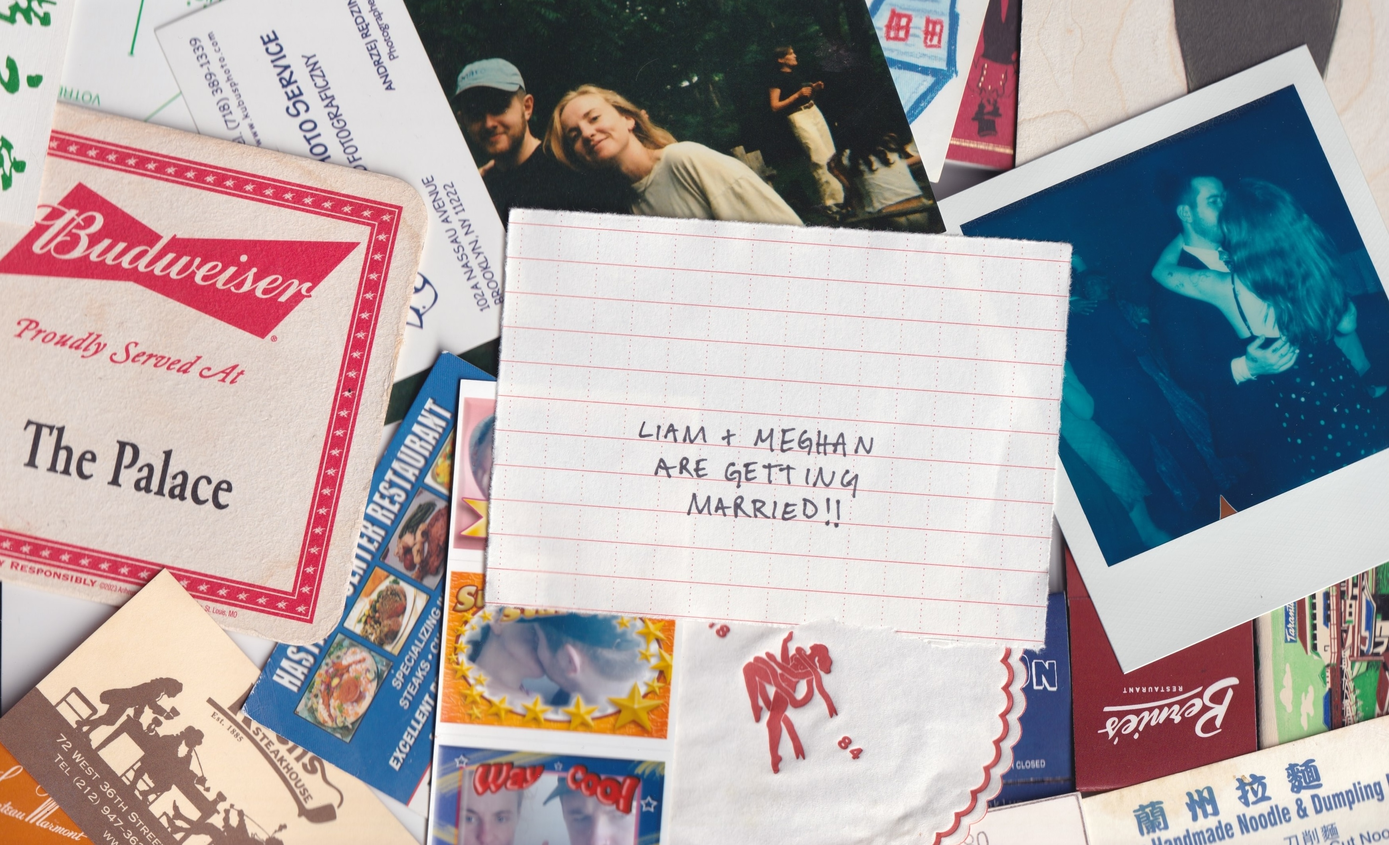
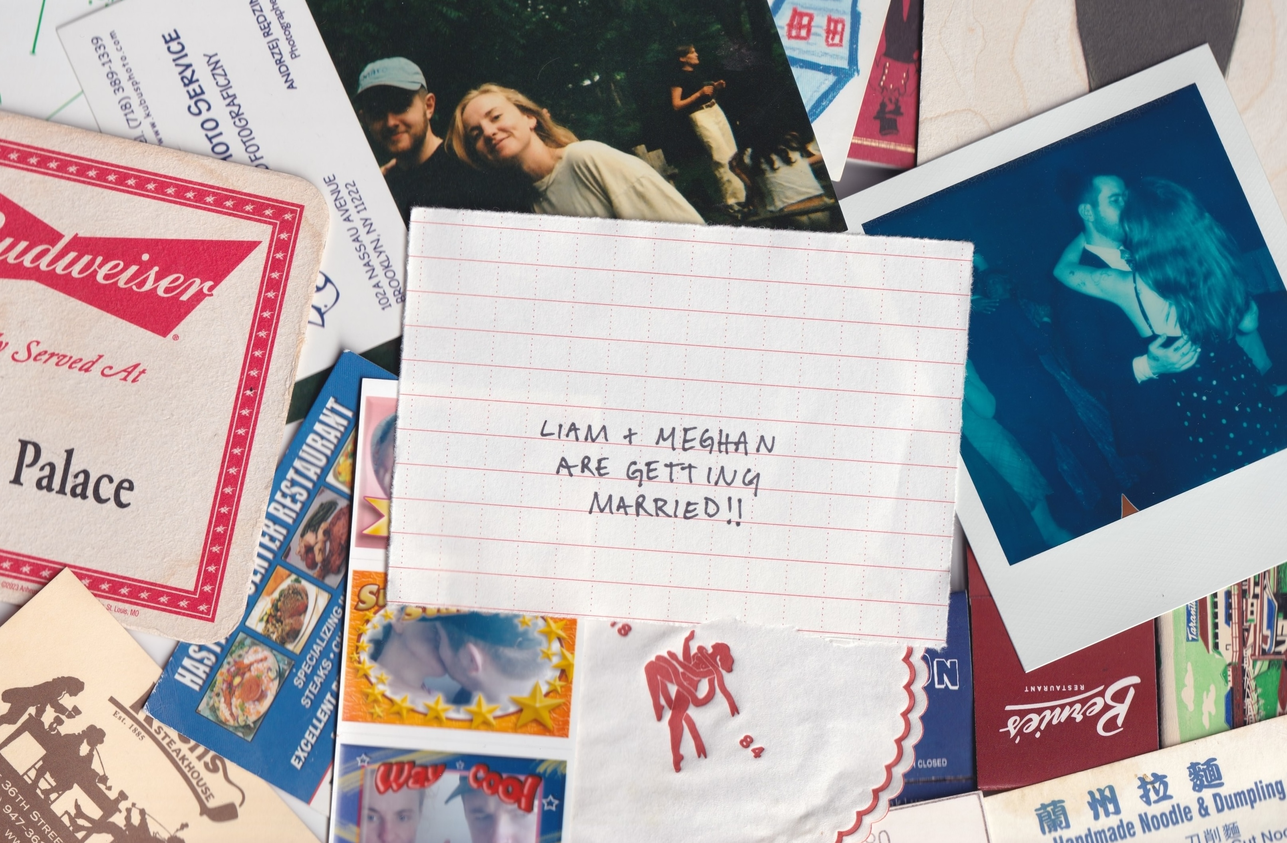
add info

diff --git a/info/index.html b/info/index.html
@@ -1,11 +1,13 @@
 <!DOCTYPE html>
 <html lang="en">
+
 <head>
     <meta charset="UTF-8">
     <meta name="viewport" content="width=device-width, initial-scale=1.0">
     <title>INFO - Meghan and Liam get Married</title>
     <link rel="stylesheet" href="../styles.css">
 </head>
+
 <body class="info-page">
     <main class="main-content">
         <nav class="navbar">
@@ -13,33 +15,35 @@
                 <ul class="nav-links">
                     <li><a href="/info" class="nav-link">INFO</a></li>
                     <li><a href="/" class="nav-link">🪨</a></li>
-                    <li><a href="https://withjoy.com/meghan-and-liam/rsvp" target="_blank" class="nav-link">RSVP</a></li>
+                    <li><a href="https://withjoy.com/meghan-and-liam/rsvp" target="_blank" class="nav-link">RSVP</a>
+                    </li>
                 </ul>
             </div>
         </nav>
-      <h2>FRIDAY MAY 15 2026</h2>
-      <h3>Welcome drinks</h3>
-      <p>7:00 PM</p>
-      <p>Location TBD</p>
+        <h2>FRIDAY MAY 15 2026</h2>
+        <h3>Welcome drinks</h3>
+        <p>6:00 PM - 9:00 PM</p>
+        <a href="https://maps.app.goo.gl/dbKrDpkBWrdQQZk99" target="_blank">Night of Joy<br />667 Lorimer St, Brooklyn,
+            NY 11211</a>
 
-      <h2>SATURDAY MAY 16 2026</h2>
-      <h3>Our Wedding</h3>
-      <a
-        href="http://www.google.com/calendar/event?action=TEMPLATE&text=Meghan+Liam%20Get%20Married!&dates=20260516T180000/20260516T230000&location=53%20Great%20Jones%20St%2C%20New%20York%2C%20NY"
-        target="_blank"  
-      >May 16th 2026 @ 6:00 - 11:00 PM</a>
-      <a
-        href="https://maps.app.goo.gl/gjuVAqPvc4EhunJA6"
-        target="_blank"
-      >Il Buco Alimentari & Vineria <br/> 53 Great Jones St, New York, NY 10012</a>
-      <p>More dancing at a second location TBD</p>
-      <div class="divider"></div>
-      <h3>TRANSPORTATION</h3>
-      <p>6 Train @ Bleeker St</p>
-      <p>B,D,F,M Trains @ Broadway-Lafayette St</p>
-      <p>We don&apos;t recommend driving</p>
-      <h3>DRESS CODE</h3>
-      <p>Party</p>
-  </main>
+        <h2>SATURDAY MAY 16 2026</h2>
+        <h3>Our Wedding</h3>
+        <a href="http://www.google.com/calendar/event?action=TEMPLATE&text=Meghan+Liam%20Get%20Married!&dates=20260516T180000/20260516T230000&location=53%20Great%20Jones%20St%2C%20New%20York%2C%20NY"
+            target="_blank">May 16th 2026 @ 6:00 - 11:00 PM</a>
+        <a href="https://maps.app.goo.gl/gjuVAqPvc4EhunJA6" target="_blank">Il Buco Alimentari & Vineria <br /> 53 Great
+            Jones St, New York, NY 10012</a>
+        <h3>After Party</h3>
+        <p>11:00 PM - Late</p>
+        <a href="https://maps.app.goo.gl/hqCtWCg91ESHbGsHA" target="_blank">Night Club 101<br />101 Avenue A, New York,
+            NY 10009</a>
+        <div class="divider"></div>
+        <h3>TRANSPORTATION</h3>
+        <p>6 Train @ Bleeker St</p>
+        <p>B,D,F,M Trains @ Broadway-Lafayette St</p>
+        <p>We don&apos;t recommend driving</p>
+        <h3>DRESS CODE</h3>
+        <p>Party</p>
+    </main>
 </body>
+
 </html>

diff --git a/styles.css b/styles.css
@@ -11,7 +11,6 @@ body {
     min-height: 100vh;
     display: flex;
     flex-direction: column;
-    overflow: hidden;
 }
 
 .container {
@@ -34,12 +33,15 @@ a {
 .navbar {
     position: fixed;
     top: 0;
+    left: 0;
+    right: 0;
     z-index: 1000;
     background-color: white;
 }
 
 .nav-container {
     max-width: 1200px;
+    margin: 0 auto;
     padding: 0 10px;
     display: flex;
     justify-content: center;
@@ -60,6 +62,7 @@ a {
     color: black;
     font-size: 32px;
     font-family: "Helvetica", sans-serif;
+    transition: color 0.3s ease;
 }
 
 /* Index page - Hero section */
@@ -79,27 +82,17 @@ a {
     justify-content: center;
     position: relative;
     text-align: center;
+    padding-bottom: 250px;
 }
 
 .positioned-link {
-    position: absolute;
     padding: 12px 24px;
     text-decoration: none;
     font-family: "Helvetica", sans-serif;
     font-size: 24px;
+    display: inline-block;
+    margin: 10px 10px;
 }
-
-.link-1 {
-    top: 33%;
-    left: 43%;
-}
-
-.link-2 {
-    top: 33%;
-    left: 57%;
-}
-
-
 
 /* Info page */
 .info-page .main-content {
@@ -109,9 +102,10 @@ a {
     align-items: center;
     width: 100%;
     gap: 12px;
-    padding: 100px 20px 20px 0;
-    height: 100vh;
-    overflow: scroll;
+    padding: 100px 20px 40px 20px;
+    min-height: 100vh;
+    overflow-y: auto;
+    overflow-x: hidden;
 
     a {
       text-decoration: none;
@@ -124,6 +118,7 @@ a {
 
     .divider {
       width: 80%;
+      max-width: 500px;
       height: 1px;
       border-top: #383838 dotted 2px;
       margin: 20px 0;
@@ -134,13 +129,22 @@ a {
       font-weight: 700;
       font-size: 28px;
       margin-bottom: 4px;
+      text-align: center;
+    }
+
+    p {
+      text-align: center;
     }
 }
 
 /* Responsive design */
 @media (max-width: 768px) {
-    .nav-menu {
-        gap: 20px;
+    .nav-links {
+        gap: 40px;
+    }
+
+    .nav-link {
+        font-size: 24px;
     }
     
     .page-header h1 {
@@ -164,18 +168,45 @@ a {
         left: 50%;
         transform: translateX(-50%);
     }
+
+    .info-page .main-content {
+        padding: 90px 15px 30px 15px;
+
+        h3, h2 {
+            font-size: 24px;
+        }
+    }
 }
 
 @media (max-width: 480px) {
     .nav-container {
-        padding: 0 15px;
+        padding: 0 10px;
+        height: 60px;
     }
     
-    .nav-logo {
-        font-size: 1.2rem;
+    .nav-links {
+        gap: 30px;
     }
-    
-    .nav-menu {
-        gap: 15px;
+
+    .nav-link {
+        font-size: 20px;
+    }
+
+    .positioned-link {
+        font-size: 18px;
+        padding: 10px 20px;
+    }
+
+    .info-page .main-content {
+        padding: 80px 15px 30px 15px;
+        gap: 10px;
+
+        h3, h2 {
+            font-size: 20px;
+        }
+
+        p, a {
+            font-size: 14px;
+        }
     }
 }

diff --git a/index.html b/index.html
@@ -1,20 +1,24 @@
 <!DOCTYPE html>
 <html lang="en">
+
 <head>
-    <meta charset="UTF-8">
-    <meta name="viewport" content="width=device-width, initial-scale=1.0">
-    <title>Meghan and Liam get Married</title>
-    <link rel="stylesheet" href="styles.css">
-    <link rel="preconnect" href="https://fonts.googleapis.com">
-    <link rel="preconnect" href="https://fonts.gstatic.com" crossorigin>
-    <link href="https://fonts.googleapis.com/css2?family=Space+Mono:ital,wght@0,400;0,700;1,400;1,700&display=swap" rel="stylesheet">
+  <meta charset="UTF-8">
+  <meta name="viewport" content="width=device-width, initial-scale=1.0">
+  <title>Meghan and Liam get Married</title>
+  <link rel="stylesheet" href="styles.css">
+  <link rel="preconnect" href="https://fonts.googleapis.com">
+  <link rel="preconnect" href="https://fonts.gstatic.com" crossorigin>
+  <link href="https://fonts.googleapis.com/css2?family=Space+Mono:ital,wght@0,400;0,700;1,400;1,700&display=swap"
+    rel="stylesheet">
 </head>
+
 <body class="index-page">
-    <main class="hero-section">
-      <div class="main-nav">
-        <a href="/info/" class="positioned-link link-1">INFO</a>
-        <a href="https://withjoy.com/meghan-and-liam/rsvp" target="_blank" class="positioned-link link-2">RSVP</a>
-      </div>
-    </main>
+  <main class="hero-section">
+    <div class="main-nav">
+      <a href="/info/" class="positioned-link">INFO</a>
+      <a href="https://withjoy.com/meghan-and-liam/rsvp" target="_blank" class="positioned-link">RSVP</a>
+    </div>
+  </main>
 </body>
+
 </html>
